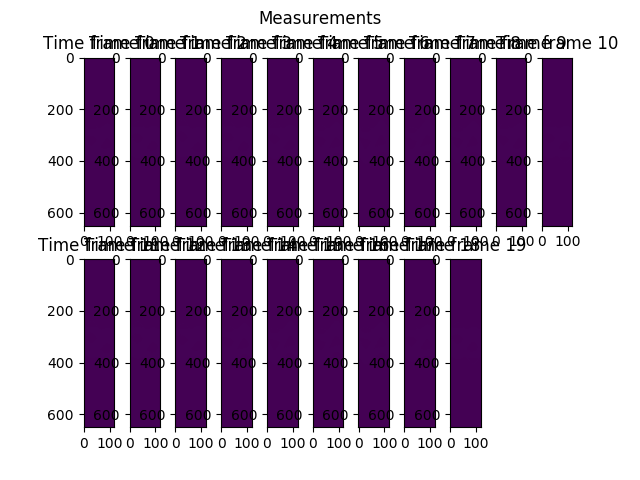
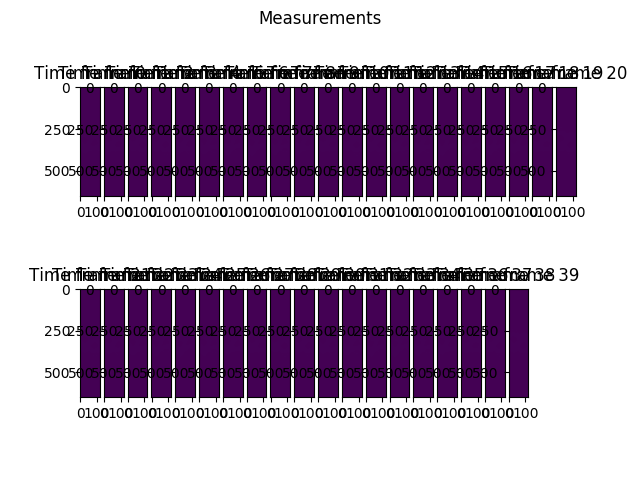
Revert "Poging om het te fixen"
This reverts commit 882670902a2e41a04f5b345f33d0824e8e331d3e.

diff --git a/STIROefeningManon/MotionModelProjSpaceNoSTIR/MotionModelProjSpaceNoSTIR.py b/STIROefeningManon/MotionModelProjSpaceNoSTIR/MotionModelProjSpaceNoSTIR.py
@@ -4,24 +4,23 @@ import numpy as np
 from skimage.transform import iradon, radon
 import ManonsFunctions as mf 
 import scipy as sp
-import pyvpx
 
 #phantom = 'Block'
 phantom = 'Shepp-Logan' 
-#noise = False
-noise = True
+noise = False
+#noise = True
 #motion = 'Step' 
 motion = 'Sine'
-#stationary = True 
-stationary = False # Only possible for sinusoidal motion 
+stationary = True 
+#stationary = False # Only possible for sinusoidal motion 
 
-nIt = 5
+nIt = 10
 trueShiftAmplitude = 15 # Kan niet alle waardes aannemen (niet alle shifts worden geprobeerd) + LET OP: kan niet groter zijn dan de lengte van het plaatje (kan de code niet aan) 
 trueOffset = 5
 numFigures = 0 
 duration = 60 # in seconds
 if (motion == 'Step'): nFrames = 2
-else: nFrames = 20
+else: nFrames = 40
 noiseLevel = 10 
 gating = False 
 
@@ -34,10 +33,6 @@ mf.write_Configuration(figSaveDir, phantom, noise, motion, stationary, nIt, true
 image2D = mf.make_Phantom(phantom, duration, noiseLevel)
 plt.figure(), plt.title('Original image'), plt.imshow(image2D, interpolation = None, vmin = 0, vmax = np.max(image2D)), plt.savefig(figSaveDir + 'Fig{}_TrueShift{}_phantom.png'.format(numFigures, trueShiftAmplitude)), plt.close()
 numFigures += 1
-
-image2DTMP = np.zeros((1, 460, 460))
-image2DTMP[0,:,:] = image2D
-pyvpx.numpy2vpx(image2DTMP, figSaveDir + 'image2D.vpx') 
  
 #_________________________ADD MOTION_______________________________ 
 phantomList, surSignal, shiftList = mf.move_Phantom(motion, nFrames, trueShiftAmplitude, trueOffset, image2D, stationary)
@@ -67,11 +62,6 @@ for iFrame in range(nFrames):
 plt.suptitle('Measurements'), plt.savefig(figSaveDir + 'Fig{}_TrueShift{}_measurements.png'.format(numFigures, trueShiftAmplitude)), plt.close()
 numFigures += 1 
 
-measListTMP = np.zeros((1, 651, 119))
-measListTMP[0,:,:] = measList[0]
-pyvpx.numpy2vpx(measListTMP, figSaveDir + 'measurementTF1.vpx')
-
-
 plt.subplot(1,2,1), plt.title('Without noise'), plt.imshow(measNoNoise, interpolation=None, vmin = 0, vmax = noiseLevel)
 plt.subplot(1,2,2), plt.title('With noise'), plt.imshow(measWithNoise, interpolation=None, vmin = 0, vmax = noiseLevel)
 plt.suptitle('Time Frame 1'), plt.savefig(figSaveDir + 'Fig{}_TrueShift{}_measurementsWithWithoutNoise.png'.format(numFigures, trueShiftAmplitude)), plt.close()
@@ -79,6 +69,7 @@ numFigures += 1
 
 reconList = []
 for iFrame in range(len(measList)): 
+
     reconList.append(iradon(measList[iFrame], iAngles)) 
 guess = np.mean(reconList, axis = 0)
 #guess = reconList[0] # Added
@@ -98,22 +89,20 @@ quadErrorSumListList = []
 guessSum = []
 guessSum.append(np.sum(guess))
 for iIt in range(nIt): 
-    '''
     # Motion model optimization
     guessMovedList = []
     guessMovedProjList = []
     quadErrorSumList = []   
-    offsetList = range(trueOffset-2, trueOffset+3)
+    offsetList = range(trueOffset-4, trueOffset+5)
     for offset in offsetList: 
         quadErrorSum = 0 
         for iFrame in range(nFrames): 
-            guessMovedList.append(np.zeros(np.shape(guess))) 
+            guessMovedList.append(np.zeros(np.shape(guess)))
             sp.ndimage.shift(guess, (surSignal[iFrame] - offset, 0), guessMovedList[iFrame]) # Je bent als het ware de correctie op het surrogaat signaal aan het zoeken
             guessMovedProj = radon(guessMovedList[iFrame], iAngles)
             guessMovedProjList.append(guessMovedProj) 
             quadErrorSum += np.sum((guessMovedProj - measList[iFrame])**2)
         quadErrorSumList.append({'offset' : offset, 'quadErrorSum' : quadErrorSum})
-        print 'Offset: {}'.format(offset), 'Quadratic error: {}'.format(quadErrorSum)
 
     quadErrorSums = [x['quadErrorSum'] for x in quadErrorSumList]
     for i in range(len(quadErrorSumList)): 
@@ -128,36 +117,19 @@ for iIt in range(nIt):
     plt.savefig(figSaveDir + 'Fig{}_TrueShift{}_QuadraticError_Iteration{}.png'.format(numFigures, trueShiftAmplitude, iIt))
     numFigures += 1 
     plt.close()
-    '''
-    offsetFound = 5
 
     # Normal MLEM 
     for iFrame in range(nFrames): 
         shiftedGuess = np.zeros(np.shape(guess))
         #shiftedGuess = guess
         sp.ndimage.shift(guess, (surSignal[iFrame] - offsetFound, 0), shiftedGuess)
-        guessTMP = np.zeros((1, 460, 460))
-        guessTMP[0,:,:] = guess
-        pyvpx.numpy2vpx(guessTMP, figSaveDir + 'guessIteration{}.vpx'.format(iIt))
-        shiftedGuessTMP = np.zeros((1, 460, 460))
-        shiftedGuessTMP[0,:,:] = shiftedGuess
-        pyvpx.numpy2vpx(shiftedGuessTMP, figSaveDir + 'shiftedGuessIteration{}.vpx'.format(iIt))
         shiftedGuessSinogram = radon(shiftedGuess, iAngles) 
-        shiftedGuessSinogramTMP = np.zeros((1, 651, 119))
-        shiftedGuessSinogramTMP[0,:,:] = shiftedGuessSinogram 
-        pyvpx.numpy2vpx(shiftedGuessSinogramTMP, (figSaveDir + 'shiftedGuessSinogramIteration{}.vpx'.format(iIt)))
         error = measList[iFrame]/shiftedGuessSinogram 
-        errorTMP = np.zeros((1, 651, 119))
-        errorTMP[0,:,:] = error 
-        pyvpx.numpy2vpx(errorTMP, figSaveDir + 'errorIteration{}.vpx'.format(iIt))
         error[np.isnan(error)] = 0
         error[np.isinf(error)] = 0
-        error[error > 1E10] = 0
+        error[error > 1E10] = 0;
         error[error < 1E-10] = 0
         errorBck = iradon(error, iAngles, filter = None) 
-        errorBckTMP = np.zeros((1, 460, 460))
-        errorBckTMP[0,:,:] = errorBck 
-        pyvpx.numpy2vpx(errorBckTMP, figSaveDir + 'errorBck{}.vpx'.format(iIt))
         errorBckShifted = np.zeros(np.shape(errorBck))
         sp.ndimage.shift(errorBck, (-surSignal[iFrame] + offsetFound, 0), errorBckShifted)
         #errorBckShifted = errorBck
